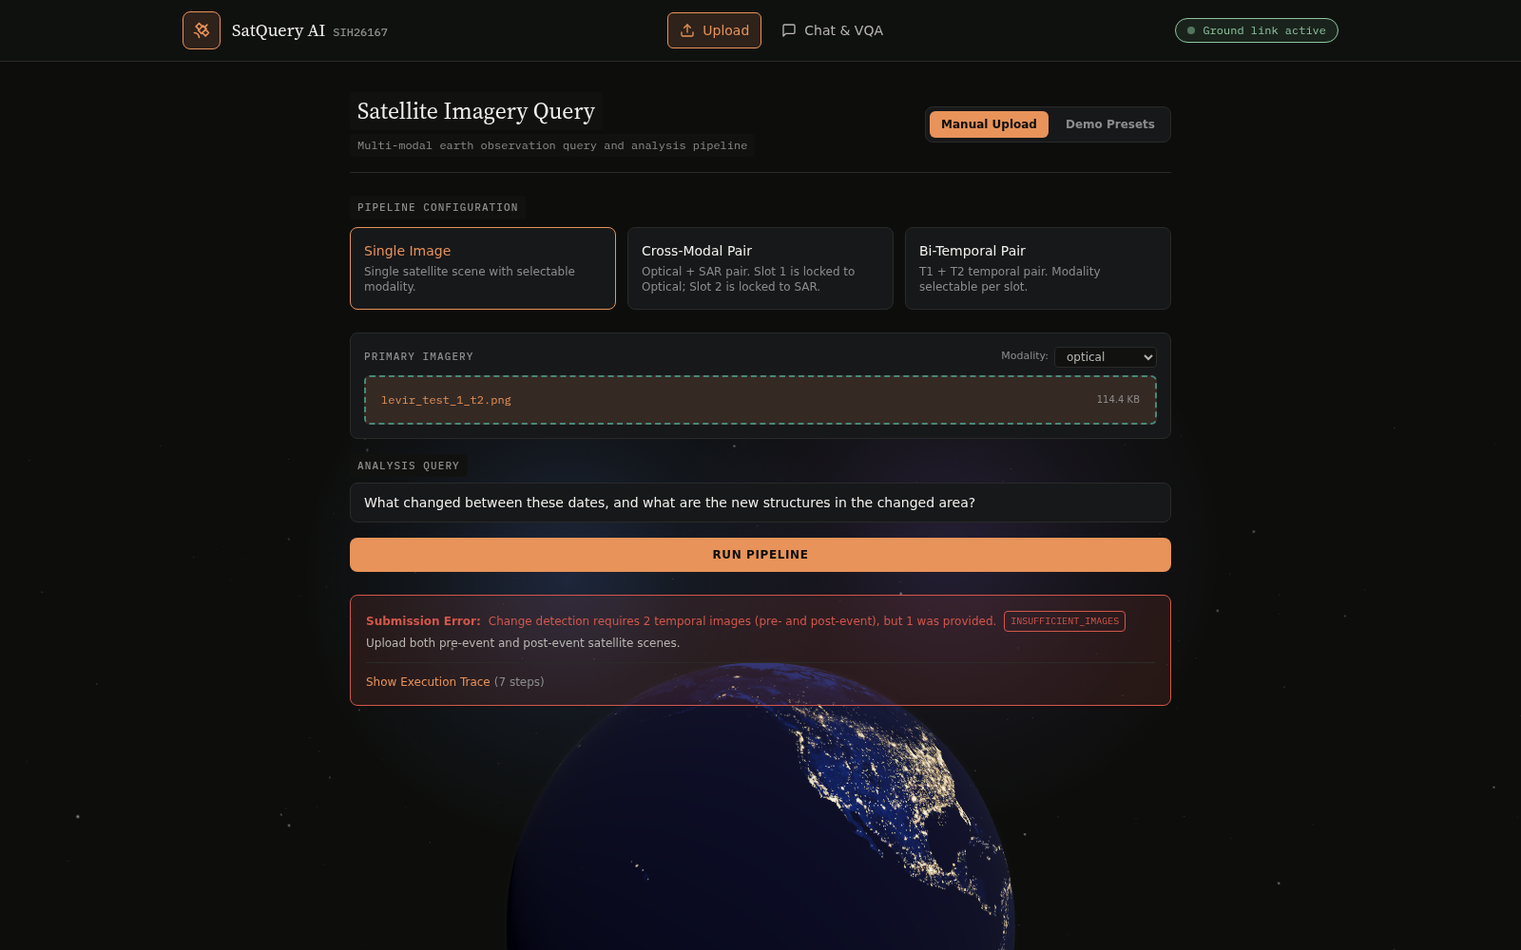
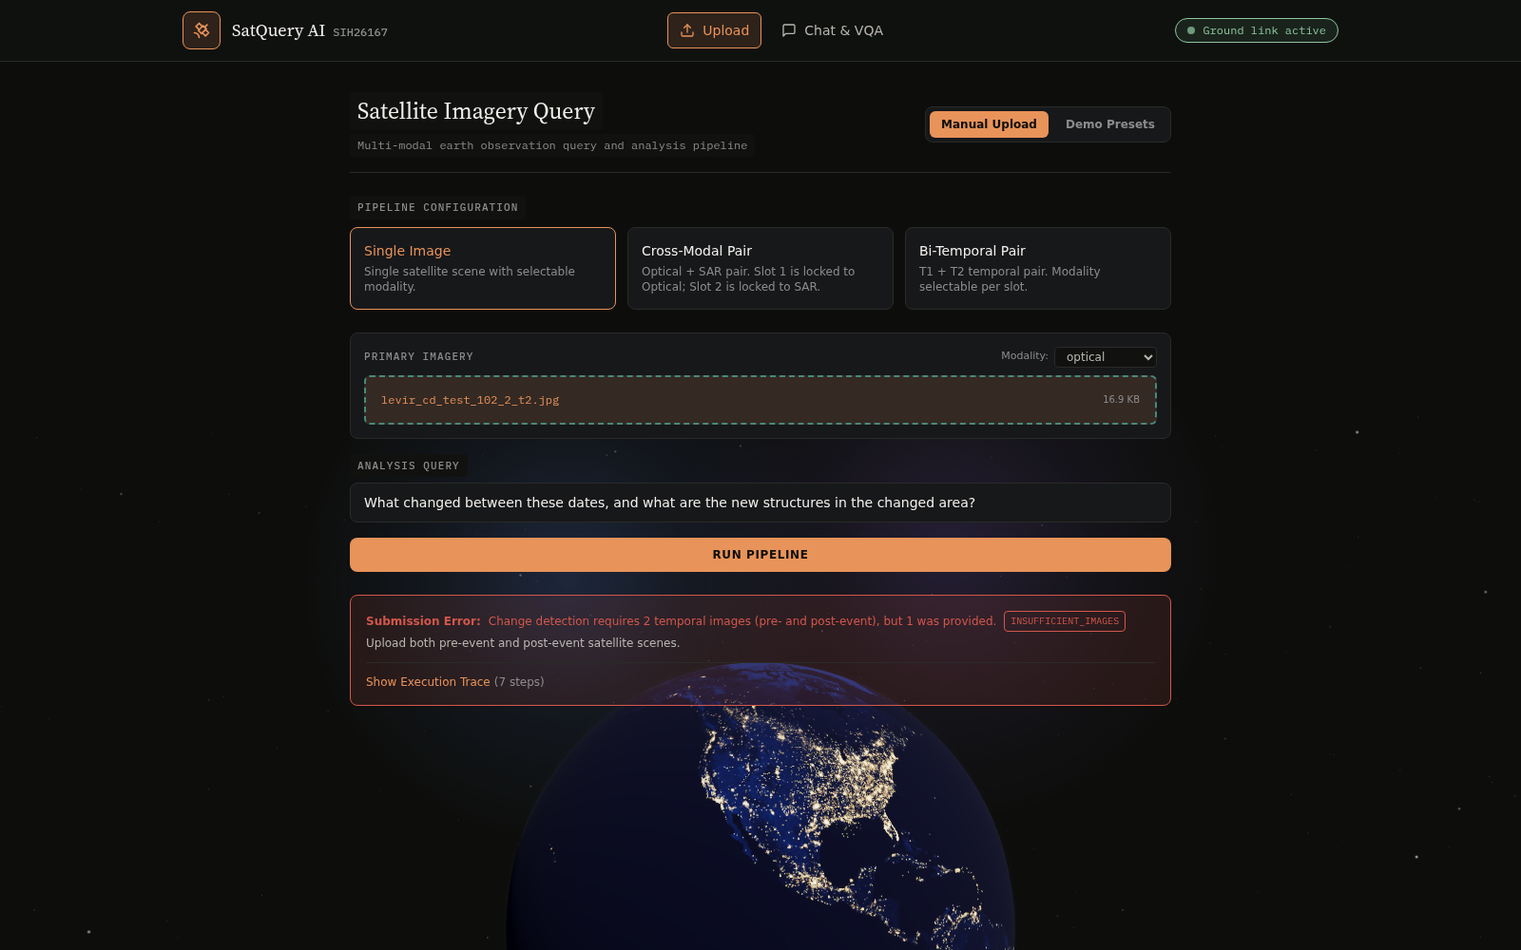
docs(26167): Step 4 live composite capture on the LEVIR-CD test-split pair
Positive path live on the inference Space at 4de1a1e: tool_sequence
[change_detection, vqa_grounding], handoff 13,704 px / bbox
[79,0,256,176] / crop 177x176, pipeline 113.6 s (BIT 0.27 s in-Space,
VQA answer 52.0 s + grounding 54.5 s), both evidence items, confidence
0.991 (min rule). Documents the two earlier runs: run 1 dropped VQA
evidence (fixed in 95cb85e, 4de1a1e), run 2 had an unexplained 180.5 s
pre-pipeline delay that did not recur. Step 5 veto re-captured on
4de1a1e with planned_sequence.

Changed region(s): [[0.4375, 0.682, 0.6875, 1.0], [0.2812, 0.403, 0.3438, 0.434]]

diff --git a/docs/evaluation/composite_query_report.md b/docs/evaluation/composite_query_report.md
@@ -3,130 +3,171 @@
 This closes the problem statement's orchestration requirement: the system must "select, **sequence**, and execute" specialist tools. Until now exactly one tool ran per query (`architecture_findings.md` §2). One fixed two-tool sequence now exists. It is not a general planner.
 
 - **Branch:** `feat/26167-composite-orchestration`, not pushed.
-- **Base:** `d22a692`, the tip of `feat/26167-hf-zerogpu-inference` (draft PR #77). Step 2's VQA uses that branch's remote inference path, so `pipeline.py` is not edited on two diverging bases. That branch sits on #76, which sits on `origin/main` `78bd9ef`, the latest descendant of `feat/26167-console-v2-redesign`.
-- **Code under test:** `563da23`.
+- **Base:** `594324d` on `feat/26167-hf-zerogpu-inference` (draft PR #77). Step 2's VQA uses that branch's remote inference path, so `pipeline.py` is not edited on two diverging bases. #77 sits on #76, which sits on `origin/main` `78bd9ef`, the latest descendant of `feat/26167-console-v2-redesign`.
+- **Code under test:** `4de1a1e`.
+- **Inference:** the Space `ybaddam8/satquery-inference` on `cpu-upgrade`, fp32, InternVL3-2B@`89915501` plus adapter `796d3c25`, BIT `c159ba76`. The Space's startup log shows both sha256 checks passing.
+
+| Commit | What |
+|---|---|
+| `dc6f01c` | The sequence: router, planner, pipeline, tests |
+| `df1d6a2` | First version of this report, with the Step 5 capture |
+| `8f88ea2` | `planned_sequence` on `route_selected`, including vetoed requests |
+| `b0fad73` | LEVIR-CD **test**-split demo pair (fixture plus provenance) |
+| `04d48c9` | The step-2 prompt no longer triggers the VQA bbox pass |
+| `95cb85e` | Verification: claims split at line breaks; markdown markers dropped |
+| `4de1a1e` | Step 2 asks what the crop contains, not what is new |
 
 ## Status
 
 | Step | Status |
 |---|---|
 | 0: safety | Done. Uncommitted files stashed as `stash@{0}` "pre-composite-orchestration-2026-09-25" |
-| 1: design | Done. The requested scenario has no fixture; an alternative was approved (below) |
-| 2: implementation plus unit tests | Done (`563da23`) |
+| 1: design | Done. The requested change→fusion scenario has no fixture; change→VQA was approved |
+| 2: implementation plus unit tests | Done |
 | 3: CI | Green (below) |
-| 4: live positive-path capture | **Blocked.** It needs the inference Space `ybaddam8/satquery-inference` deployed and answering `/vqa_ground` and `/change_detect` |
-| 5: live negative-case capture | Done (below) |
+| 4: live positive path | Done, live on the Space (below) |
+| 5: live negative case | Done, re-captured on `4de1a1e` (below) |
 
 ## Step 1: design decision
 
-**The requested scenario is not backed by fixtures.** "Change detection on an optical pair, then fusion on an optical+SAR pair" needs a bi-temporal pair in which one date is also a co-registered optical+SAR pair. What exists:
-
-| Fixture | Bi-temporal | Optical + SAR | CRS |
-|---|---|---|---|
-| LEVIR-CD `levir_test_1`, `levir_train_103_9` | yes | optical RGB PNG only | none |
-| Sen1Floods11 Bolivia_103757 (S1 VV/VH, S2 13-band) | one date only | yes | EPSG:4326 |
+**The requested scenario is not backed by fixtures.** "Change detection on an optical pair, then fusion on an optical+SAR pair" needs a bi-temporal pair in which one date is also a co-registered optical+SAR pair:
+- LEVIR-CD is bi-temporal but optical RGB only, with no CRS.
+- Sen1Floods11 Bolivia_103757 has optical and SAR, but for one date only.
 
 Two further problems:
-- **BIT is out of domain.** It is a LEVIR building-change model (0.5 m). Using it for water change on 10 m Sentinel-2 would produce meaningless numbers.
-- **The available second date doesn't fit the pipeline.** A second real date exists on Planetary Computer (a live STAC query found 126 S2 L2A dates and 165 S1 RTC dates over the fixture's footprint, 2018–2019). But L2A has no B10 band, so s2cloudless can't run on it, and RTC gamma0 is not the σ0 dB the fusion tool assumes. Using it would need new data acquisition and preprocessing.
+- **BIT is out of domain.** It is a LEVIR building-change model (0.5 m); water change on 10 m Sentinel-2 would give meaningless numbers.
+- **The available second date doesn't fit the pipeline.** A second real date exists on Planetary Computer (a live STAC query found 126 S2 L2A dates and 165 S1 RTC dates over the footprint). But L2A has no B10 band for s2cloudless, and RTC gamma0 is not the σ0 dB the fusion tool expects.
 
-**Approved alternative:** `change_detection → vqa_grounding` on the LEVIR pair. Example query: "What changed between these dates, and what are the new structures in the changed area?" Both models run in their own domain, and step 2 genuinely consumes step 1's output.
+**Approved alternative:** `change_detection → vqa_grounding`.
 
 | Decision | What was built |
 |---|---|
-| Schema | `DispatchPlan.followups: tuple[ToolStep, ...] = ()`. `tool_name` / `image_bindings` / `task_parameters` are unchanged, so every single-tool caller and test is untouched. There is a `tool_sequence` property. `ToolStep.input_from_previous` has exactly one allowed value, `"largest_change_component"` |
-| Routing rule | New `TaskType.CHANGE_DESCRIBE` requires a change cue (the existing CHANGE_VQA patterns) **and** a cue asking what the changed area contains: "new structures/buildings/…", "what kind/type of", "what was built/demolished/…", "identify the new …", "in the changed area". It is evaluated after fusion and before CHANGE_VQA. "Describe what changed between these images" stays CHANGE_VQA |
-| Threading | The largest **8-connected component** of the post-gate change mask (BIT's 256×256 space) is scaled to post-image pixels, padded to at least 128 px per side (centred, clamped to the image), and cropped. VQA runs on that crop; its box is shifted back to full-frame pixels before georeferencing. With no component left after the confounder gate, step 2 is skipped and recorded as `sequence_short_circuit` |
-| Trace | One trace. `route_selected.tool_sequence`. `sequence_step_started` / `sequence_step_completed` (timed) for each step, around each tool's own existing steps. `sequence_handoff` records the component's pixel area, its mask-space bbox, the crop box and the crop size |
-| One answer, one confidence | A single `verify()` over both tools' evidence. The text is the change narrative plus "In the largest changed region: {verified VQA answer}". Confidence is the **minimum** over the surviving evidence, a **design choice** labelled as such in code (a chain is only as reliable as its weakest step), not a sourced rule |
-| Loop-proofing | `MAX_TOOL_CALLS = 2`: a `DispatchPlan` validator rejects longer plans, the pipeline counts tool executions, and it refuses any sequence other than `["change_detection", "vqa_grounding"]` |
-| Vetoes | Same structural checks as CHANGE_VQA (exactly 2 images, capture order 0/1). They run in the router, before either tool |
+| Schema | `DispatchPlan.followups: tuple[ToolStep, ...] = ()`. The single-tool fields are unchanged, so every existing caller and test is untouched. There is a `tool_sequence` property. `ToolStep.input_from_previous` has one allowed value, `"largest_change_component"` |
+| Routing rule | `TaskType.CHANGE_DESCRIBE` requires a change cue (the CHANGE_VQA patterns) **and** a cue asking what the changed area contains: "new structures/buildings", "what kind/type of", "what was built/demolished", "identify the new", "in the changed area". It is evaluated after fusion and before CHANGE_VQA; "Describe what changed …" stays CHANGE_VQA |
+| Threading | The largest **8-connected component** of the post-gate change mask (BIT's 256×256 space) is scaled to post-image pixels, padded to at least 128 px per side (centred, clamped to the image), and cropped. VQA runs on that crop, and its box is shifted back to full-frame pixels. If the gate leaves no component, step 2 is skipped and recorded as `sequence_short_circuit` |
+| Step-2 prompt | A fixed, content-only prompt: "Describe the structures and land cover visible in this image." VQA sees one post-image crop, so it isn't asked what is *new*; that comes from BIT. The prompt has no spatial trigger word, so there is no bbox pass (see "Fixes found by the live run") |
+| Trace | One trace. `route_selected` has `tool_sequence` and `planned_sequence`. There are `sequence_step_started` / `sequence_step_completed` steps around each tool's own steps, and a `sequence_handoff` step (component area, mask bbox, crop box, crop size) |
+| One answer, one confidence | One `verify()` over both tools' evidence. The text is the change narrative plus "In the largest changed region: {verified VQA answer}". Confidence is the **minimum** over the surviving evidence, a **design choice** labelled as such in code, not a sourced rule |
+| Loop-proofing | `MAX_TOOL_CALLS = 2`: a `DispatchPlan` validator, a call counter in the pipeline, and only `["change_detection","vqa_grounding"]` is accepted as a sequence |
+| Vetoes | The CHANGE_VQA structural checks (2 images, capture order 0/1), run in the router before either tool. `planned_sequence` still shows what would have run |
 
-## Code changes (`563da23`)
+**Demo pair:** `levir_cd_test_102_2`, from the LEVIR-CD **test** split, via `ericyu/LEVIRCD_Cropped256` at `b5a9ebf`, row 40. How it was chosen (full provenance in `bck/tests/fixtures/README.md`):
+- All 2,048 test pairs were run through local BIT and the real gate. 283 were rejected by the registration check, 1,195 suppressed by the 2% gate, 570 passed, and 315 passed with a largest component of at least 2% of the frame on its own.
+- The top three by IoU with the ground-truth label:
+  - `test_16_4`: 68.09% change, bbox [0,34,256,256], IoU 0.988. It covers most of the frame, so its crop would be nearly the whole image.
+  - **`test_102_2`**: 20.91% change, component 13,704 px (20.91%), bbox [79,0,256,176], IoU 0.974.
+  - `test_102_8`: 31.86% change, component 22.47%, bbox [55,91,256,256], IoU 0.966.
 
-| File | Change |
-|---|---|
-| `bck/app/router/schemas.py` | `CHANGE_DESCRIBE`, `ToolStep`, `DispatchPlan.followups` plus cap validator, `tool_sequence`, `MAX_TOOL_CALLS` |
-| `bck/app/router/classifier.py` | `_CHANGE_CONTENT_PATTERNS`, and the change-plus-content rule before CHANGE_VQA |
-| `bck/app/router/planner.py` | The CHANGE_DESCRIBE plan: change detection with a VQA followup on the post image |
-| `bck/app/router/veto.py` | CHANGE_DESCRIBE gets the CHANGE_VQA inventory vetoes; registry entry added |
-| `bck/app/router/router.py`, `__init__.py` | `tool_sequence` in router trace params; exports |
-| `bck/app/pipeline/pipeline.py` | `_run_change_then_describe`, `_largest_change_component`, `_padded_region`, `_combine_change_and_vqa`; `region` crop support in `_run_vqa_tool` / `_run_remote_vqa`; `tool_sequence` in `route_selected` |
-| `bck/app/evidence/builder.py` | `assemble_answer(confidence=...)` optional override. The default is still the mean |
-| `bck/tests/router/test_change_describe.py` | 8 paraphrases, 6 near misses, the plan, the cap, 2 vetoes |
-| `bck/tests/pipeline/test_change_describe_sequence.py` | Run order, handoff geometry, crop size equals the VQA input, trace order, min confidence, short-circuit, veto before any tool (×2), 5 padding and clamping cases |
-
-In the pipeline tests the models are stand-ins (a known BIT probability map and the deterministic in-process VQA model); every other stage is real. One finding came from a real stage: a 1,200 px changed square (1.83% of the frame) was suppressed by the real confounder gate's 2.0% floor. The short-circuit did what it should, and the test now uses a 3,000 px (4.6%) region.
-
-## Step 3: CI (`bck/`, at `563da23`)
+## Step 3: CI (`bck/`, at `4de1a1e`)
 
 `uv sync --all-extras --dev && uv run ruff check . && uv run ruff format --check . && uv run lint-imports && uv run pytest -q` (exit 0):
 
 ```
-Resolved 152 packages in 28ms
-Checked 142 packages in 38ms
+Resolved 152 packages in 8ms
+Checked 142 packages in 22ms
 All checks passed!
-202 files already formatted
+206 files already formatted
 Analyzed 160 files, 504 dependencies.
 Leaf modules never import each other KEPT
 Only pipeline composes modules KEPT
 API and pipeline never load local models or torch KEPT
 Contracts import nothing of ours KEPT
 Contracts: 4 kept, 0 broken.
-509 passed, 1 skipped, 112 warnings in 27.12s
+516 passed, 1 skipped, 114 warnings in 29.69s
 ```
 
-One earlier full run, before this one, had a single failure: `tests/pipeline/test_trace_timing.py::test_stage_step_spans_its_work`. That test asserts that a 0.05 s `time.sleep` shows up as at least 0.05 s of `datetime.now()` wall-clock. It passed alone and in both later full runs, and it doesn't touch any code changed here. It is a pre-existing timing flake (WSL2 wall-clock adjustment), reported, not edited.
+Earlier, one full run had a single failure in `tests/pipeline/test_trace_timing.py::test_stage_step_spans_its_work`, a wall-clock timing flake that passes alone and in every later run. It is reported, not edited.
 
-## Step 5: negative case, live (no mocks)
+## Step 4: positive path, live (no mocks)
 
 **Stack:**
-- Vite dev server (`fnt/`, :5173) → Vite proxy → FastAPI (`bck/`, uvicorn :8000) → Postgres and TiTiler (`infra/docker-compose.yml`), with `INFERENCE_SPACE` unset.
-- Headed Chromium (Playwright 1.62.1) at 1600×1000 with `--disable-gpu`, logged in with a throwaway account whose email and password were generated at run time.
-- Captured 2026-09-25T12:22:18Z.
-
-**Input:** the Upload page in Single Image mode, one LEVIR post-date image (`bck/tests/fixtures/levir_test_1_t2.png`, optical), and the composite query "What changed between these dates, and what are the new structures in the changed area?". Uploading a single image is the only way the UI lets a user send this query with a missing input; the bi-temporal mode won't submit with an empty slot. The missing capture order case (`TEMPORAL_ORDER_MISSING`) is covered by unit tests, not by a live capture.
-
-**API response (`POST /query`):**
+- Vite dev server (:5173) → FastAPI (uvicorn :8000) at `4de1a1e` → the real Space through `remote.py` (`INFERENCE_TIMEOUT_S=180`), plus Postgres and TiTiler (`infra/docker-compose.yml`).
+- Headed Chromium (Playwright 1.62.1) at 1600×1000 with `--disable-gpu`, a throwaway account generated at run time, the Upload page's **Bi-Temporal Pair** slots (T1 = `levir_cd_test_102_2_t1.jpg`, T2 = `_t2.jpg`), and the query "What changed between these dates, and what are the new structures in the changed area?".
+- Captured 2026-09-25T23:52:44Z; trace `6c39976b-9006-4f27-9a48-6466eb55c0f3`.
 
 | Field | Value |
 |---|---|
-| HTTP status | **422** |
-| `reason_code` | **`INSUFFICIENT_IMAGES`** |
-| stage | `routing` |
-| message | "Change detection requires 2 temporal images (pre- and post-event), but 1 was provided." |
-| suggested_action | "Upload both pre-event and post-event satellite scenes." |
-| trace_id | `2c10285c-5d74-4b73-98c8-98783e4dde30` |
-| Trace steps | **7** |
-| Pipeline ms (`trace.created_at` → last `completed_at`) | 169.2 |
-| Round trip ms (browser, click → response) | 10,354. This was the backend's first `/query` after start, so it includes importing the pipeline cold; in an earlier run on a backend that had already served a request it was 2,745 ms |
+| HTTP | **200**, `served_from: live` |
+| Ordered `tool_sequence` | **`["change_detection", "vqa_grounding"]`** (`planned_sequence` is the same) |
+| Handoff | **component 13,704 px** (20.91% of 256×256), mask bbox **[79, 0, 256, 176]**, crop box **[79, 0, 256, 176]**, crop 177×176 (already ≥128, so no padding) |
+| Total pipeline ms (`trace.created_at` → last `completed_at`) | **113,605.2** |
+| Round trip (browser, click → response) | 114,355 ms |
+| Final confidence (min rule) | **0.9911** = min(BIT 0.9911, VQA text 1.0) |
+| Verification | verified, 0 claims rejected |
 
-| # | Step | Duration | Notes |
+**Per-step timings** (real; the pass durations are measured inside the Space):
+
+| # | Step | ms | Notes |
 |---|---|---|---|
-| 1 | `pipeline.request_received` | 0.00 ms | `image_count: 1` |
-| 2 | `api.asset_received` | 0.01 ms | |
-| 3 | `ingestion.asset_ingestion_started` | 0.00 ms | |
-| 4 | `ingestion.asset_ingested` | 168.23 ms | |
-| 5 | `router.routing_started` | 0.00 ms | |
-| 6 | `router.route_selected` | 0.20 ms | `intent: change_describe`, `tool: null`, `tool_sequence: []`, `supported: false` |
-| 7 | `routing.execution_failed` | 0.00 ms | |
+| 11 | `router.route_selected` | 0.17 | intent `change_describe` |
+| 12 | `pipeline.sequence_step_started` | 0.00 | 1 of 2, `change_detection` |
+| 14 | `inference.remote.remote_change_detect_call` | 4,485.4 | Space 0.284 s, network and queue 4.20 s |
+| 15 | `models.change_detection.bit.bit_forward_pass` | 271.0 | |
+| 16 | `…bit_inference_completed` | 4,610.0 | gate passed, 20.91% changed |
+| 17 | `pipeline.sequence_step_completed` | 4,610.1 | 1 of 2 |
+| 18 | `pipeline.sequence_handoff` | 0.01 | see above |
+| 19 | `pipeline.sequence_step_started` | 0.00 | 2 of 2, `vqa_grounding` |
+| 22 | `inference.remote.remote_vqa_call` | 108,953.3 | Space 106.45 s, network and queue 2.50 s |
+| 23 | `models.internvl.internvl_answer_pass` | 51,983.7 | |
+| 24 | `models.internvl.internvl_grounding_pass` | 54,471.0 | no bbox pass (non-spatial prompt) |
+| 26 | `pipeline.sequence_step_completed` | 108,958.2 | 2 of 2 |
+| 28 | `verification.verification_completed` | 1.78 | effective confidence 0.9955, 0 rejected |
 
-**Vetoed before any tool ran:**
-- The trace has no `sequence_step_*`, `change_detection_started`, `remote_change_detect_call`, `bit_forward_pass`, `vqa_started` or `internvl_*` step.
-- The uvicorn log for the run has no change-detection, VQA or gradio call.
-- The router recognised the composite intent (`change_describe`) and refused it on inventory, the same path single-tool CHANGE_VQA uses.
+**Evidence 1: `change_detection.bit`** (mask, confidence 0.9911).
+- Description: "Change detected (increased) across 20.9% of the scene, located centre." 13,704 changed px; `confounder_suppressed: false` ("Change detected (20.91%) exceeds confounder precision threshold (2.0%).").
 
-**Screenshots** (`docs/evaluation/screenshots/`):
+**Evidence 2: `internvl_vqa`** (text, confidence 1.0, `OpenGVLab/InternVL3-2B + yash004-mlp1-vision-lora`, grounded to `levir_cd_test_102_2_t2.jpg`):
+> The image shows an aerial view of a large industrial or commercial area. The dominant feature is a long, white-roofed building, likely a warehouse or large facility, which occupies a significant portion of the image. Surrounding this building are several parking lots filled with cars, indicating the presence of employees or visitors. The land cover includes a mix of paved areas for parking and the expansive roof of the building. There are also patches of grass and possibly some trees or vegetation near the edges of the parking lots. The overall layout suggests a functional, organized space designed for industrial or commercial activities.
+
+The VQA text's 1.0 is a **self-consistency** score. The grounding pass returned the whole answer back as one observation, so every claim is "supported" by the same model's restatement. This is how RULE-VERIFY-09 is designed, but it is not independent verification of the content.
+
+**Screenshots** (`docs/evaluation/screenshots/`, from the capture above):
 
 | File | Content |
 |---|---|
-| `composite_veto_single_image.png` | Full page, veto message, trace collapsed |
-| `composite_veto_single_image_panel.png` | Tight crop of the veto alert (16 px margin) |
-| `composite_veto_single_image_trace.png` | Full page, trace expanded, every step's parameters open |
-| `composite_veto_single_image_trace_panel.png` | Tight crop of the alert with the expanded trace |
+| `composite_success_levir_test_102_2.png` | Full page, result card, trace collapsed |
+| `composite_success_levir_test_102_2_panel.png` | Tight crop of the result card: answer plus both evidence items |
+| `composite_success_levir_test_102_2_trace.png` | Full page, trace expanded, with every step's parameters open except the ingestion/received steps (large raster metadata) |
+| `composite_success_levir_test_102_2_trace_panel.png` | Tight crop of the card with the expanded trace (896×6899) |
 
-Capture method follows `run_log.md`: scroll to the top and wait 4 s for the globe texture before each full-page capture. Panels are clipped in document coordinates at scroll position 0. A first attempt clipped after scrolling the alert into view, which painted the sticky nav bar over the top of the tall trace panel; that capture was discarded.
+### Fixes found by the live runs
+There were three live browser runs; only the third is the Step 4 result.
 
-## Step 4: positive path, pending
+- **Run 1** (trace `819fa21c`, code `04d48c9`) ran both tools, but **VQA's evidence was dropped**: RULE-VERIFY-09 rejected all 8 claims (confidence 0.0). There were two causes, both fixed with tests:
+  1. `95cb85e`: claims only split at sentence punctuation and conjunctions, so a markdown heading line was glued to the list item under it and matched no single grounded line. Line breaks are now claim boundaries, and list numbering and emphasis markers are dropped. The real answer from that run is a regression fixture: 4 of 10 claims are now grounded, and the prompt echo and partial claims are still rejected.
+  2. `4de1a1e`: step 2 had asked the user's "what are the new structures" question of one post-image crop, so VQA asserted novelty it can't see ("a new large building … has been constructed"). It now asks only what the crop contains.
 
-This is blocked until `ybaddam8/satquery-inference` is deployed and answering both endpoints. With the Space up and `INFERENCE_SPACE` / `HF_TOKEN` set, the same capture runs the LEVIR pair through the bi-temporal slots. It should record: the ordered `tool_sequence`, the handoff (component area, bbox, crop), real per-step timings for both tools, both evidence items, the final (min) confidence and the total pipeline ms.
+  Also, before any run, `04d48c9` fixed the step-2 prefix: it contained "where", a VQA spatial trigger, which added a bbox pass (45–60 s) to every composite query.
+- **Run 2** (trace `98bf46c7`, code `4de1a1e`) returned the correct answer: both evidence items, confidence 0.991, pipeline 170.2 s. But the browser round trip was 351.2 s. **180.5 s passed before `run()` started**, and the VQA call spent 56.7 s in network and queue.
+  - The backend log shows a single `/query`.
+  - A direct `curl` straight afterwards took 114.2 s end to end, with `run()` starting 0.01 s after send and 2.5 s of network and queue.
+  - Run 3 in the browser had a 0.7 s gap.
+
+  The run-2 delay was on the browser → Vite-proxy path and at the Space's queue at that moment. **It is not explained and did not recur.**
+
+## Step 5: negative case, live (no mocks)
+
+Same stack, re-captured on `4de1a1e` at 2026-09-25T23:53:46Z, trace `11e076b2-f9e1-42f1-beef-deda51a98df7`. Input: Single Image mode, one post-date image (`levir_cd_test_102_2_t2.jpg`), the composite query.
+
+| Field | Value |
+|---|---|
+| HTTP | **422** |
+| `reason_code` | **`INSUFFICIENT_IMAGES`** (stage `routing`) |
+| message | "Change detection requires 2 temporal images (pre- and post-event), but 1 was provided." |
+| `route_selected` | intent `change_describe`, `tool: null`, `tool_sequence: []`, **`planned_sequence: ["change_detection", "vqa_grounding"]`**, `supported: false` |
+| Trace steps | **7**, with no `sequence_*`, `change_detection_*`, `remote_*`, `bit_*`, `vqa_*` or `internvl_*` step |
+| Pipeline ms | 17.8 |
+| Round trip | 753 ms |
+
+The request was vetoed at routing, before either tool ran.
+
+Screenshots:
+- `composite_veto_single_image.png` / `_panel.png`: full page and the veto alert.
+- `composite_veto_single_image_trace.png` / `_trace_panel.png`: full page and the alert with the trace expanded.
+
+Capture method for both steps follows `run_log.md`: scroll to the top and wait 4 s for the globe texture before each full-page capture. Panels are clipped in document coordinates at scroll position 0.
+
+## Open items
+- **Latency:** step 2 takes about 106–108 s on `cpu-upgrade`, which fits under the 180 s timeout. On `cpu-basic` it would not fit.
+- **Confidence meaning:** the VQA text's confidence reflects self-consistency (see Evidence 2).
+- **Map overlay:** served through TiTiler, which Render doesn't run. This is the follow-up ticket in PR #77.
